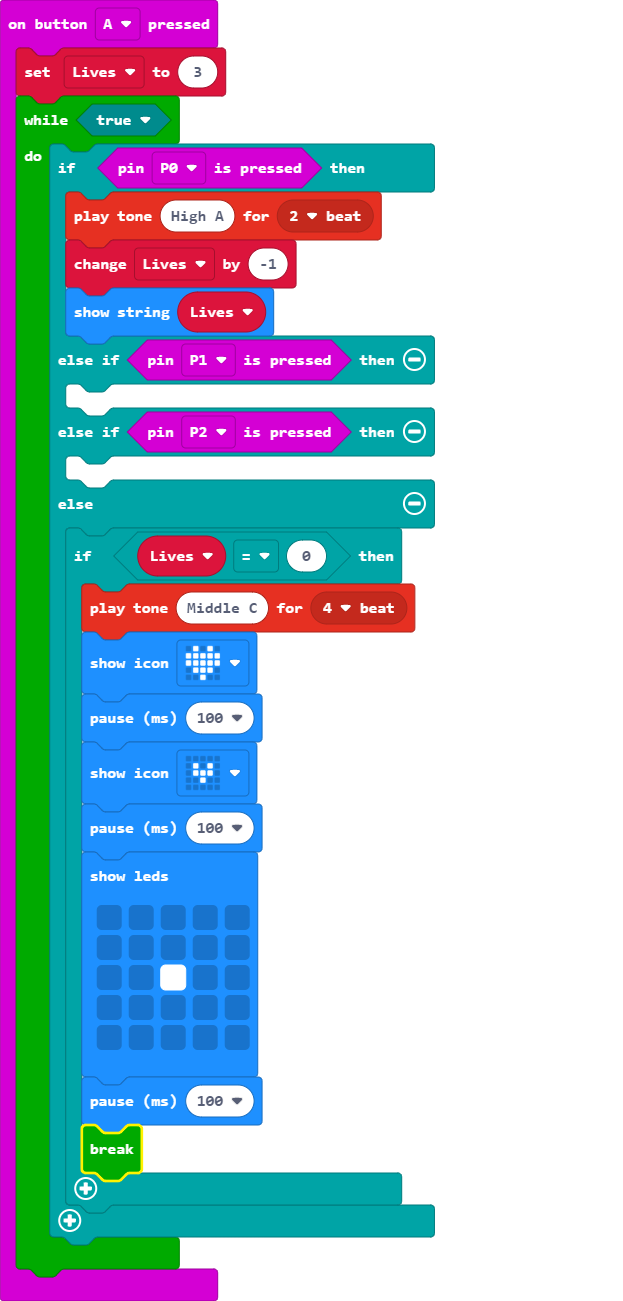
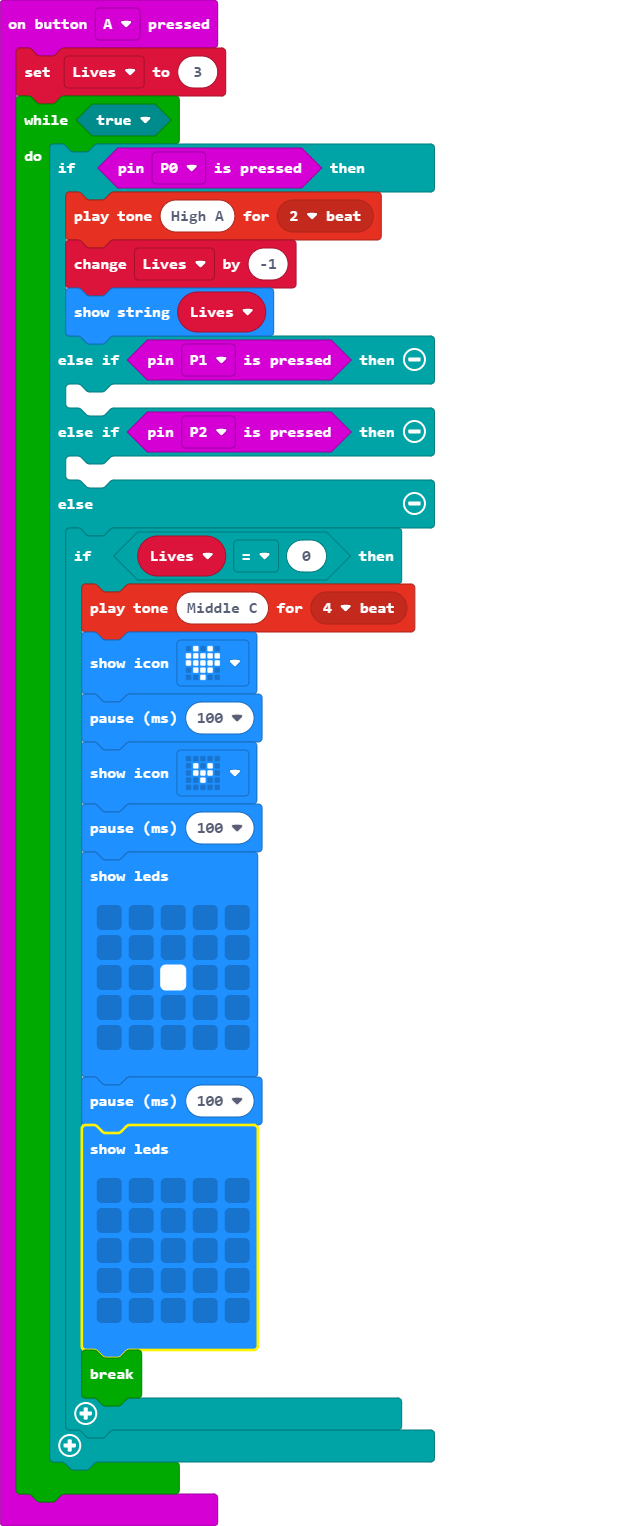
Update main.blocks, main.ts

Changed region(s): [[0.0, 0.0, 0.7014, 0.9839]]

diff --git a/main.ts b/main.ts
@@ -25,6 +25,13 @@ input.onButtonPressed(Button.A, function () {
                     . . . . .
                     `)
                 basic.pause(100)
+                basic.showLeds(`
+                    . . . . .
+                    . . . . .
+                    . . . . .
+                    . . . . .
+                    . . . . .
+                    `)
                 break;
             }
         }
